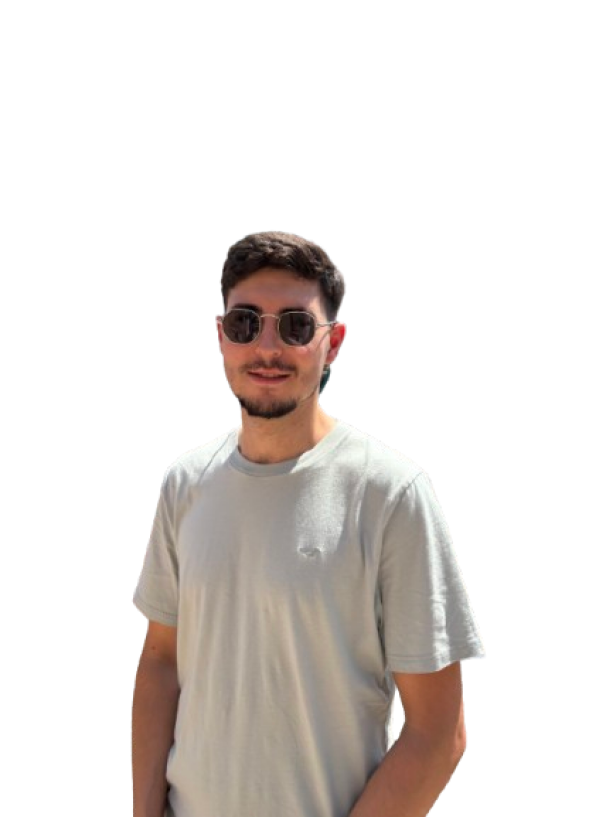
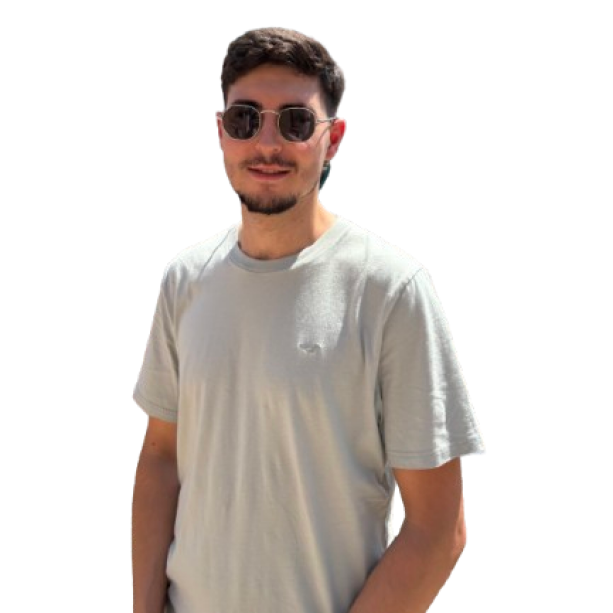
Update Github page

diff --git a/home.html b/home.html
@@ -1,7 +1,7 @@
 <div class="section home  fs-4 primary-gradient-bottom shadow" id="home">
     <div class="container-lg ">
-        <div class="row text-center text-md-start align-items-center ola">
-            <div class="col-sm-6">
+        <div class="row text-center text-md-start">
+            <div class="col-sm-6 description">
                 <h1 class="display-2  fw-bold">Jaime Bonilla</h1>
                 <p>I'm a person who aspire to work as programmer.
                     <b>I consider myself an organized and responsible person, always willing to learn and give my best.</b> I love building something new, 

diff --git a/css/style.css b/css/style.css
@@ -54,6 +54,10 @@ html, body {
 img{
     width: 100%;
     height: 100%;
+    mask-image: linear-gradient(
+        black 80%,
+        transparent
+    );
 }
 
 .carousel-item > a >img {
@@ -69,9 +73,20 @@ a{
 }
 
 
-@media (min-width: 768px) {
+@media (min-width: 1080px) {
     .offcanvas-start.w-md-75 {
         width: 75% !important;
+    }
+
+    .description{
+        padding-top: 120px;
+    }
+    img{
+        padding-top: 120px;
+        mask-image: linear-gradient(
+            black 90%,
+            transparent
+        );
     }
 
     #home {
